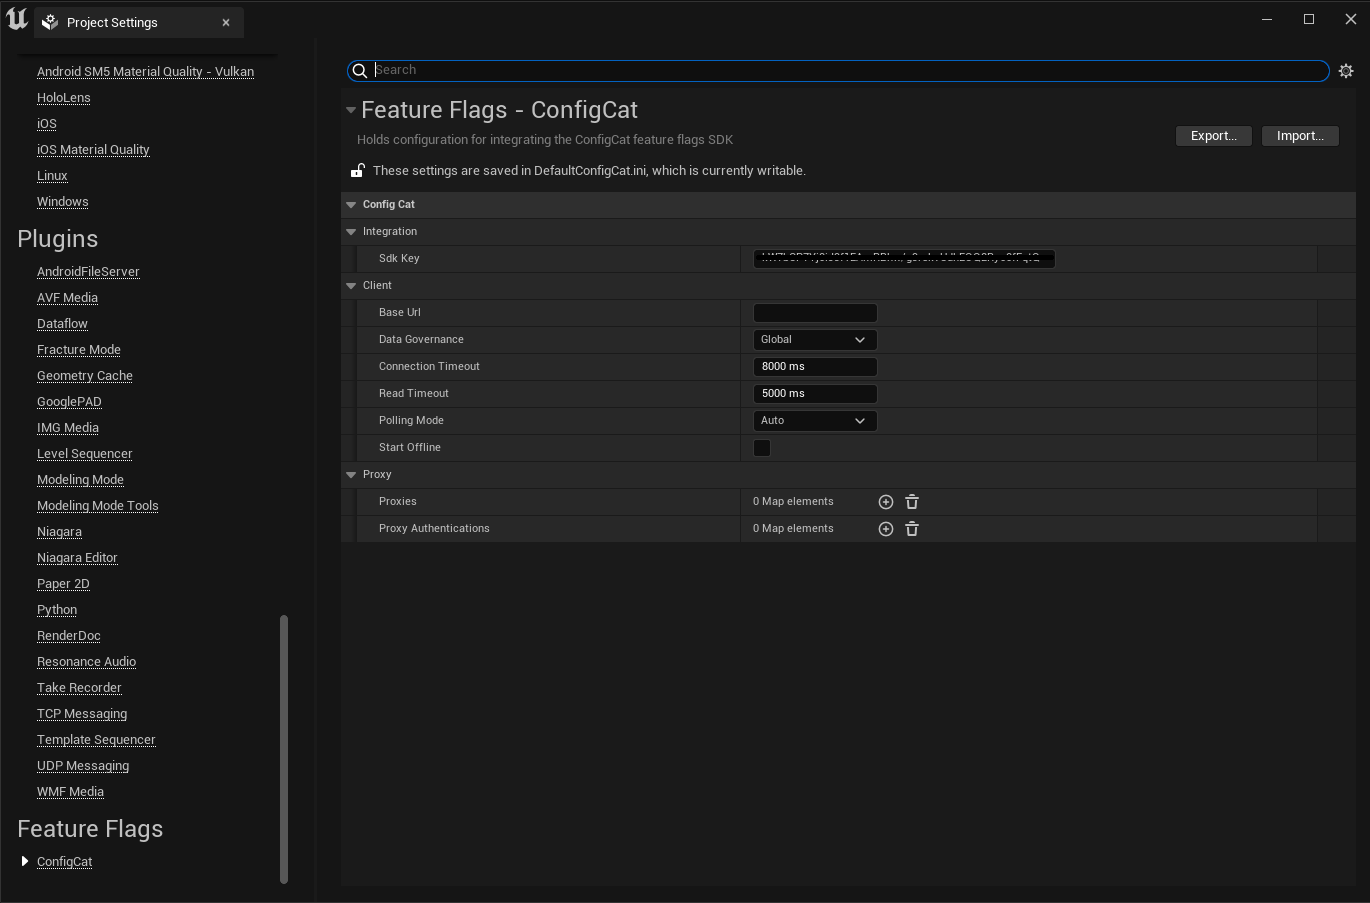
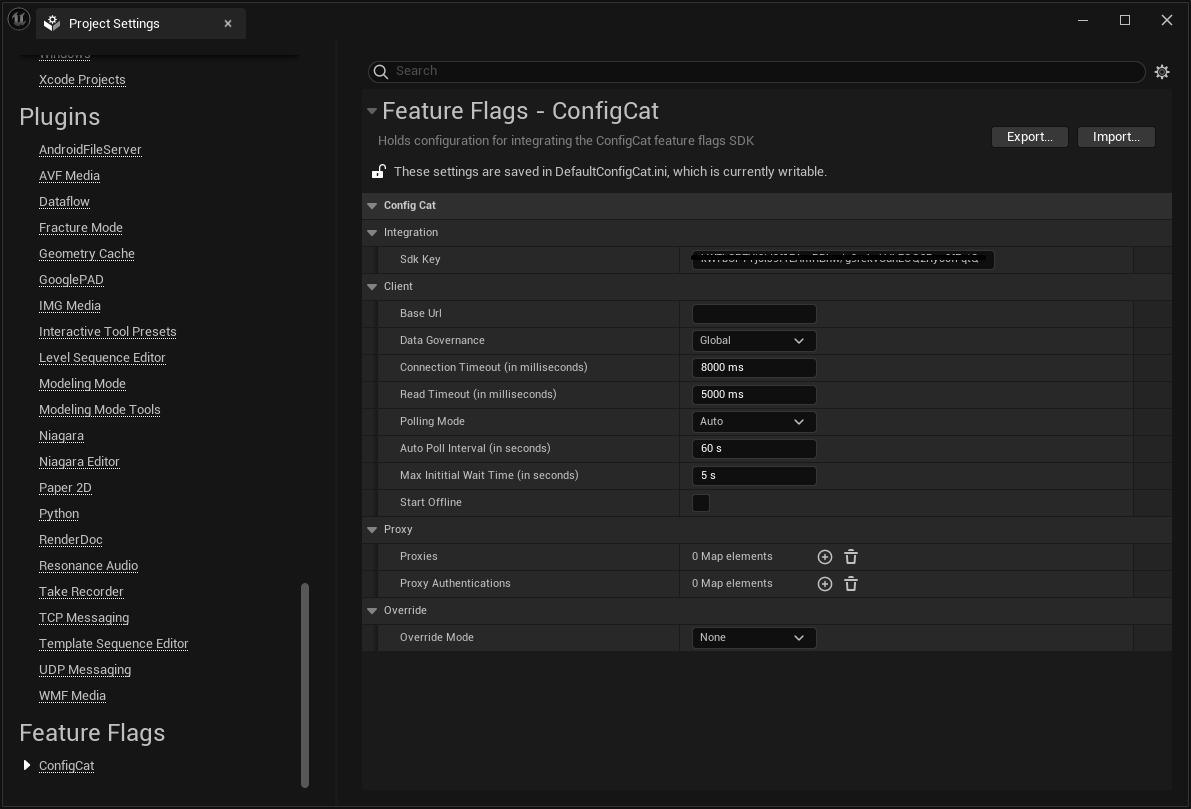
improved variable presentation

diff --git a/website/docs/sdk-reference/unreal.md b/website/docs/sdk-reference/unreal.md
@@ -54,20 +54,20 @@ You can configure all ConfigCat related settings inside the `ProjectSettings -> 
 
 <img className="unreal-plugin-settings zoomable" src="/docs/assets/unreal/plugin-settings.png" alt="Unreal Engine plugin settings" />
 
-| Properties              | Description                                                                                                                                                                                                                                                                                         |
-| ----------------------- | --------------------------------------------------------------------------------------------------------------------------------------------------------------------------------------------------------------------------------------------------------------------------------------------------- |
-| `SdkKey`                | SDK Key to access your feature flags and configurations. Get it from ConfigCat Dashboard.                                                                                                                                                                                                           |
-| `BaseUrl`               | Optional, sets the CDN base url (forward proxy, dedicated subscription) from where the sdk will download the config JSON.                                                                                                                                                                        |
-| `DataGovernance`        | Optional, defaults to `Global`. Describes the location of your feature flag and setting data within the ConfigCat CDN. This parameter needs to be in sync with your Data Governance preferences. [More about Data Governance](advanced/data-governance.md). Available options: `Global`, `EuOnly`.  |
-| `ConnectTimeoutMs`      | Optional, defaults to `8000ms`. Sets the amount of milliseconds to wait for the server to make the initial connection (i.e. completing the TCP connection handshake). `0` means it never times out during transfer                                                                                  |
-| `ReadTimeoutMs`         | Optional, defaults to `5000ms`. Sets the amount of milliseconds to wait for the server to respond before giving up. `0` means it never times out during transfer.                                                                                                                                   |
-| `PollingMode`           | Optional, sets the polling mode for the client. [More about polling modes](#polling-modes).                                                                                                                                                                                                         |
-| `AutoPollInterval`      | For PollingMode == Custom, sets at least how often this policy should fetch the latest configuration and refresh the cache.                                                                                                                                                                         |
-| `MaxInitWaitTime`       | For PollingMode == Custom, sets the maximum waiting time between initialization and the first config acquisition in seconds.                                                                                                                                                                        |
-| `CacheRefreshInterval`  | For PollingMode == LazyLoad, sets how long the cache will store its value before fetching the latest from the network again.                                                                                                                                                                        |
-| `Proxies`               | Optional, sets proxy addresses. e.g. { "https": "your_proxy_ip:your_proxy_port" } on each http request                                                                                                                                                                                              |
-| `ProxyAuthentications`  | Optional, sets proxy authentication on each http request.                                                                                                                                                                                                                                           |
-| `bStartOffline`         | Optional, sets the SDK ot be initialized in offline mode.                                                                                                                                                                                                                                           |
+| Properties                    | Description                                                                                                                                                                                                                                                                                         |
+| ----------------------------- | --------------------------------------------------------------------------------------------------------------------------------------------------------------------------------------------------------------------------------------------------------------------------------------------------- |
+| `Sdk Key`                     | SDK Key to access your feature flags and configurations. Get it from ConfigCat Dashboard.                                                                                                                                                                                                           |
+| `Base Url`                    | Optional, sets the CDN base url (forward proxy, dedicated subscription) from where the sdk will download the config JSON.                                                                                                                                                                        |
+| `Data Governance`             | Optional, defaults to `Global`. Describes the location of your feature flag and setting data within the ConfigCat CDN. This parameter needs to be in sync with your Data Governance preferences. [More about Data Governance](advanced/data-governance.md). Available options: `Global`, `EuOnly`.  |
+| `Connect Timeout`             | Optional, defaults to `8000ms`. Sets the amount of milliseconds to wait for the server to make the initial connection (i.e. completing the TCP connection handshake). `0` means it never times out during transfer                                                                                  |
+| `Read Timeout`                | Optional, defaults to `5000ms`. Sets the amount of milliseconds to wait for the server to respond before giving up. `0` means it never times out during transfer.                                                                                                                                   |
+| `Polling Mode`                | Optional, sets the polling mode for the client. [More about polling modes](#polling-modes).                                                                                                                                                                                                         |
+| `Auto Poll Interval`          | For PollingMode == Custom, sets at least how often this policy should fetch the latest configuration and refresh the cache.                                                                                                                                                                         |
+| `Maximum Inititial Wait Time` | For PollingMode == Custom, sets the maximum waiting time between initialization and the first config acquisition in seconds.                                                                                                                                                                        |
+| `Cache Refresh Interval`      | For PollingMode == LazyLoad, sets how long the cache will store its value before fetching the latest from the network again.                                                                                                                                                                        |
+| `Proxies`                     | Optional, sets proxy addresses. e.g. { "https": "your_proxy_ip:your_proxy_port" } on each http request                                                                                                                                                                                              |
+| `Proxy Authentications`       | Optional, sets proxy authentication on each http request.                                                                                                                                                                                                                                           |
+| `Start Offline`               | Optional, sets the SDK ot be initialized in offline mode.                                                                                                                                                                                                                                           |
 
 ### 4. Get your setting value
 
@@ -100,11 +100,11 @@ SetMyAwesomeFeatureEnabled(bIsMyAwesomeFeatureEnabled);
 
 ## Anatomy of `GetValue`
 
-| Parameters     | Description                                                                                                  |
-| -------------- | ------------------------------------------------------------------------------------------------------------ |
-| `Key`          | **REQUIRED.** The key of a specific setting or feature flag. Set on _ConfigCat Dashboard_ for each setting.  |
-| `DefaultValue` | **REQUIRED.** This value will be returned in case of an error.                                               |
-| `User`         | Optional, _User Object_. Essential when using Targeting. [Read more about Targeting.](advanced/targeting.md) |
+| Parameters      | Description                                                                                                  |
+| --------------- | ------------------------------------------------------------------------------------------------------------ |
+| `Key`           | **REQUIRED.** The key of a specific setting or feature flag. Set on _ConfigCat Dashboard_ for each setting.  |
+| `Default Value` | **REQUIRED.** This value will be returned in case of an error.                                               |
+| `User`          | Optional, _User Object_. Essential when using Targeting. [Read more about Targeting.](advanced/targeting.md) |
 
 <Tabs groupId="unreal-languages">
 <TabItem value="blueprints" label="Blueprints">
@@ -140,11 +140,11 @@ FString TargetValue = ConfigCat->GetStringValue(TEXT("targetValue"), TEXT(""), U
 
 `GetValueDetails()` is similar to `GetValue()` but instead of returning the evaluated value only, it gives more detailed information about the evaluation result.
 
-| Parameters     | Description                                                                                                  |
-| -------------- | ------------------------------------------------------------------------------------------------------------ |
-| `Key`          | **REQUIRED.** The key of a specific setting or feature flag. Set on _ConfigCat Dashboard_ for each setting.  |
-| `DefaultValue` | **REQUIRED.** This value will be returned in case of an error.                                               |
-| `User`         | Optional, _User Object_. Essential when using Targeting. [Read more about Targeting.](advanced/targeting.md) |
+| Parameters      | Description                                                                                                  |
+| --------------- | ------------------------------------------------------------------------------------------------------------ |
+| `Key`           | **REQUIRED.** The key of a specific setting or feature flag. Set on _ConfigCat Dashboard_ for each setting.  |
+| `Default Value` | **REQUIRED.** This value will be returned in case of an error.                                               |
+| `User`          | Optional, _User Object_. Essential when using Targeting. [Read more about Targeting.](advanced/targeting.md) |
 
 <Tabs groupId="unreal-languages">
 <TabItem value="blueprints" label="Blueprints">
@@ -167,16 +167,16 @@ FConfigCatEvaluationDetails Details = ConfigCat->GetStringValueDetails(TEXT("myF
 
 The `Details` result contains the following information:
 
-| Field                             | Description                                                                               |
-| --------------------------------- | ----------------------------------------------------------------------------------------- |
-| `Value`                           | The evaluated value of the feature flag or setting.                                       |
-| `Key`                             | The key of the evaluated feature flag or setting.                                         |
-| `IsDefaultValue`                  | True when the default value passed to getValueDetails() is returned due to an error.      |
-| `Error`                           | In case of an error, this field contains the error message.                               |
-| `User`                            | The user object that was used for evaluation.                                             |
-| `MatchedEvaluationPercentageRule` | If the evaluation was based on a percentage rule, this field contains that specific rule. |
-| `MatchedEvaluationRule`           | If the evaluation was based on a targeting rule, this field contains that specific rule.  |
-| `FetchTime`                       | The last download time of the current config.                                             |
+| Field                                | Description                                                                               |
+| ------------------------------------ | ----------------------------------------------------------------------------------------- |
+| `Value`                              | The evaluated value of the feature flag or setting.                                       |
+| `Key`                                | The key of the evaluated feature flag or setting.                                         |
+| `Is Default Value`                   | True when the default value passed to getValueDetails() is returned due to an error.      |
+| `Error`                              | In case of an error, this field contains the error message.                               |
+| `User`                               | The user object that was used for evaluation.                                             |
+| `Matched Evaluation Percentage Rule` | If the evaluation was based on a percentage rule, this field contains that specific rule. |
+| `Matched Evaluation Rule`            | If the evaluation was based on a targeting rule, this field contains that specific rule.  |
+| `FetchTime`                          | The last download time of the current config.                                             |
 
 ## User Object
 
@@ -325,10 +325,10 @@ The _ConfigCat SDK_ downloads the latest values and stores them automatically ev
 
 Available options:
 
-| Option Parameter            | Description                                                                                         | Default |
-| --------------------------- | --------------------------------------------------------------------------------------------------- | ------- |
-| `AutoPollIntervalInSeconds` | Polling interval.                                                                                   | 60      |
-| `MaxInitWaitTimeInSeconds`  | Maximum waiting time between the client initialization and the first config acquisition in seconds. | 5       |
+| Option Parameter           | Description                                                                                         | Default |
+| -------------------------- | --------------------------------------------------------------------------------------------------- | ------- |
+| `Auto Poll Interval`       | Polling interval.                                                                                   | 60      |
+| `Max Inititial Wait Time`  | Maximum waiting time between the client initialization and the first config acquisition in seconds. | 5       |
 
 ### Lazy Loading
 
@@ -338,9 +338,9 @@ When calling `getValue()` the _ConfigCat SDK_ downloads the latest setting value
 
 Available options:
 
-| Parameter                       | Description | Default |
-| ------------------------------- | ----------- | ------- |
-| `cacheRefreshIntervalInSeconds` | Cache TTL.  | 60      |
+| Parameter                | Description | Default |
+| ------------------------ | ----------- | ------- |
+| `Cache Refresh Interval` | Cache TTL.  | 60      |
 
 ### Manual Polling
 
